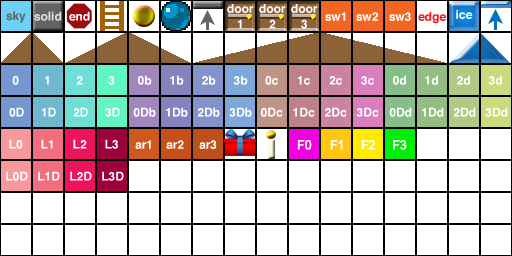
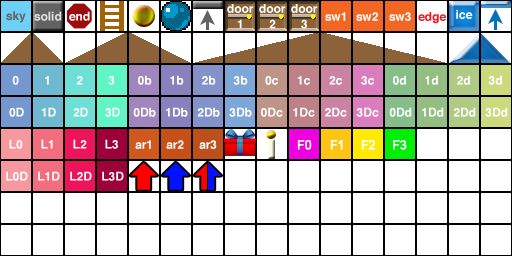
Added tiles to trigger scrolling the screen upward. Changed realgame.js to make players touching those tiles to trigger screen scroll.

Changed region(s): [[0.25, 0.625, 0.4375, 0.75]]

diff --git a/scripts/tiles.js b/scripts/tiles.js
@@ -75,6 +75,25 @@ define([
     ladder: true,
   };
 
+  var tileInfoScreenScrollRed = {
+    collisions: false,
+    //open: tue,
+    screenScroll: true,
+    team: 1, // bit flags bit 0=red, bit 1=blue
+  };
+  var tileInfoScreenScrollBlue = {
+    collisions: false,
+    //open: tue,
+    screenScroll: true,
+    team: 2, // bit flags bit 0=red, bit 1=blue
+  };
+  var tileInfoScreenScrollAll = {
+    collisions: false,
+    //open: tue,
+    screenScroll: true,
+    team: 3, // bit flags bit 0=red, bit 1=blue
+  };
+
   var tileInfoWall = {
     collisions: true,
     solidForAI: true,
@@ -383,9 +402,9 @@ define([
     tileInfoLocalTeleportDest1,   // 0x51
     tileInfoLocalTeleportDest2,   // 0x52
     tileInfoLocalTeleportDest3,   // 0x53
-    nullTile,            // 0x54
-    nullTile,            // 0x55
-    nullTile,            // 0x56
+    tileInfoScreenScrollRed,            // 0x54
+    tileInfoScreenScrollBlue,            // 0x55
+    tileInfoScreenScrollAll,            // 0x56
     nullTile,            // 0x57
     nullTile,            // 0x58
     nullTile,            // 0x59

diff --git a/scripts/realgame.js b/scripts/realgame.js
@@ -558,11 +558,20 @@ window.g = globals;
   }(gl.clear.bind(gl));
 
   var  checkPlayerReachedTop = function(player) {
-    var y = (player.position[1]);
-    if (y > 0 && y < (g_levelHeight - g_yScrollOffset) - (19*32))
+//    var y = (player.position[1]);
+//    if (y > 0 && y < (g_levelHeight - g_yScrollOffset) - (19*32))
+//    {
+//        g_yScrollOffsetTarget = g_yScrollOffset + 19*32;
+//        g_scrollState = 1;
+//    }
+    var tile = g_services.levelManager.getTileInfoByPixel(player.position[0], player.position[1]);
+    if (tile.screenScroll == true)
     {
+      if (tile.team & (1<<player.teamIndex))
+      {
         g_yScrollOffsetTarget = g_yScrollOffset + 19*32;
         g_scrollState = 1;
+      }
     }
     return false;
   }
